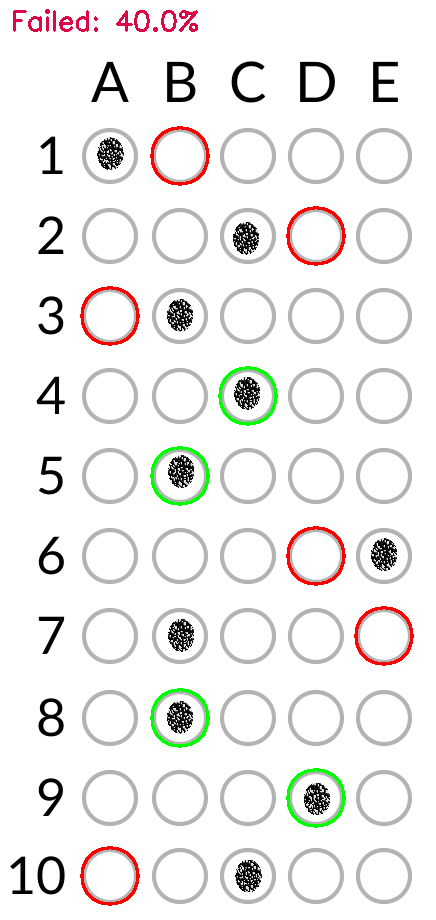
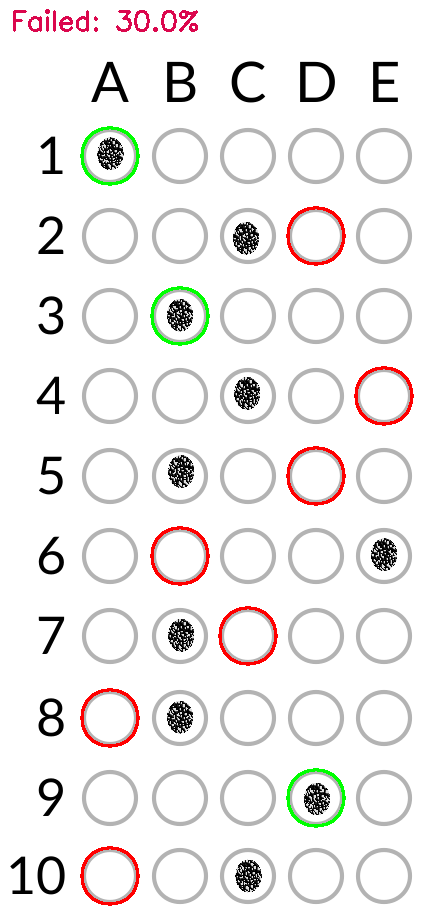
Utworzono za pomocą Colaboratory

diff --git a/02_document_scanner/omr.py b/02_document_scanner/omr.py
@@ -1,0 +1,103 @@
+import numpy as np
+from numpy.linalg import norm
+import cv2
+from skimage.filters import threshold_local
+import argparse
+import imutils
+from imutils import contours
+import sys
+
+def prepare_image(image):
+    gray = cv2.cvtColor(src = image, code = cv2.COLOR_BGR2GRAY)
+    blurred = cv2.GaussianBlur(src = gray, ksize = (5,5), sigmaX = 0)
+    edges = cv2.Canny(image = blurred, threshold1 = 70, threshold2 = 70)
+    thresh = cv2.threshold(src =edges, thresh = 50, maxval = 255, type = cv2.THRESH_BINARY | cv2.THRESH_OTSU)[1]
+    return thresh
+
+ap = argparse.ArgumentParser()
+ap.add_argument('-i', '--image', required = True, help='path to image')
+
+args = vars(ap.parse_args())
+
+print(f'OpenCV version: {cv2.__version__}')
+
+
+#klucz odpowiedzi
+ANSWER_KEY = {0:0, 1:3, 2:0, 3:2, 4:1, 5:3, 6:4, 7:1, 8:3, 9:0}
+#wczytanie obrazu
+image = cv2.imread(args['image'])
+#przygotowanie obrazu
+thresh = prepare_image(image)
+
+#wyszukanie wszystich krawędzi
+cnts = cv2.findContours(image = thresh.copy(), mode = cv2.RETR_EXTERNAL, method = cv2.CHAIN_APPROX_SIMPLE)
+cnts = imutils.grab_contours(cnts)
+print(f'[INFO] Liczba wykrytych kontur: {len(cnts)}')
+
+#wyszukanie kontur z odpowiedziami
+question_contours = []
+
+for cnt in cnts:
+    (x,y,w,h) = cv2.boundingRect(cnt)
+    aspect_ratio = w/float(h)
+
+    if w>50 and h >50 and aspect_ratio > 0.9 and aspect_ratio < 1.1:
+        question_contours.append(cnt)
+
+print(f'[INFO] Liczba wykrytych odpowiedzi: {len(question_contours)}')
+
+img = image.copy()
+
+#przetworzenie obrazu
+
+correct = 0
+question_contour = imutils.contours.sort_contours(question_contours, method = 'top-to-bottom')[0]
+
+for question, idx in enumerate(range(0,len(question_contours), 5)):
+    fields = question_contours[idx:idx+5]
+    fields = imutils.contours.sort_contours(fields, method = 'left-to-right')[0]
+    marked = None
+
+    for cnt_idx, cnt in enumerate(fields):
+        #utworzenie maski
+        mask = np.zeros(thresh.shape, dtype = 'uint8')
+
+        #wyrysowanie konturu na masce
+        cv2.drawContours(image = mask, contours = [cnt], contourIdx = -1, color = 255, thickness = -1)
+
+        mask = cv2.bitwise_and(src1 = thresh, src2 = thresh, mask = mask)
+
+        #zliczenie pikseli niezerowych
+        total = cv2.countNonZero(mask)
+        if marked is None or total>marked[0]:
+            marked = (total, cnt_idx)
+
+    color = (0,0,255)
+    key = ANSWER_KEY[question]
+
+    if key == marked[1]:
+        color = (0,255,0)
+        correct += 1
+
+    cv2.drawContours(image = img, contours = [fields[key]], contourIdx = -1, color = color, thickness = 2)
+
+#dodatnie górnego obramowania
+checked = cv2.copyMakeBorder(
+    src = img,
+    top = 50,
+    bottom = 0,
+    left = 0,
+    right = 0,
+    borderType = cv2.BORDER_CONSTANT,
+    value = (255,255,255)
+)
+
+score = (correct/10)
+color = (50,168,82) if score > 0.6 else (77,7,219)
+text = 'Passed' if score >= 0.6 else 'Failed'
+
+cv2.putText(img = checked, text = f'{text}: {score * 100}%', org = (10,30), fontFace = cv2.FONT_HERSHEY_SIMPLEX, fontScale = 0.9,
+            color = color, thickness = 2)
+cv2.imwrite(r'checked.png', checked)
+cv2.imshow('image', checked)
+cv2.waitKey(0)

diff --git a/02_document_scanner/optical mark recognition.py b/02_document_scanner/optical mark recognition.py
@@ -1,0 +1,102 @@
+import numpy as np
+from numpy.linalg import norm
+import cv2
+from skimage.filters import threshold_local
+import argparse
+import imutils
+import sys
+
+def prepare_image(image):
+    gray = cv2.cvtColor(src = image, code = cv2.COLOR_BGR2GRAY)
+    blurred = cv2.GaussianBlur(src = gray, ksize = (5,5), sigmaX = 0)
+    edges = cv2.Canny(image = blurred, threshold1 = 70, threshold2 = 70)
+    thresh = cv2.threshold(src =edges, thresh = 50, maxval = 255, type = cv2.THRESH_BINARY | cv2.THRESH.OTSU)[1]
+    return thresh
+
+ap = argparse.ArgumentParser()
+ap.add_argument('-i', '--image', required = True, help='path to image')
+
+args = vars(ap.parse_args())
+
+print(f'OpenCV version: {cv2.__version__}')
+
+
+#klucz odpowiedzi
+ANSWER_KEY = {0:0, 1:3, 2:0, 3:2, 4:1, 5:3, 6:4, 7:1, 8:3, 9:0}
+#wczytanie obrazu
+image = cv2.imread(args['image'])
+#przygotowanie obrazu
+thresh = prepare_image(image)
+
+#wyszukanie wszystich krawędzi
+cnts = cv2.findContours(image = thresh.copy(), mode = cv2.RETR_EXTERNAL, method = cv2.CHAIN_APPROX_SIMPLE)
+cnts = imutils.grab_contours(cnts)
+print(f'[INFO] Liczba wykrytych kontur: {len(cnts)}')
+
+#wyszukanie kontur z odpowiedziami
+question_contour = []
+
+for cnt in cnts:
+    (x,y,w,h) = cv2.boundingRect(cnt)
+    aspect_ratio = w/float(h)
+
+    if w>50 and h >50 and aspect_ratio > 0.9 and aspect_ratio < 1.1:
+        question_contour.append(cnt)
+
+print(f'[INFO] Liczba wykrytych odpowiedzi: {len(question_contour)}')
+
+img = image.copy()
+
+#przetworzenie obrazu
+
+correct = 0
+question_contour = imutils.contours.sort_contours(question_contour, method = 'top-to-bottom')[0]
+
+for question, idx in enumerate(range(0,len(question_contour), 5)):
+    fields = question_contour[idx:idx+5]
+    fields = imutils.contours.sort_contours(fields, method = 'left-to-right')
+    marked = None
+
+    for cnt_idx, cnt in enumerate(fields):
+        #utworzenie maski
+        mask = np.zeros(thresh.shape, dtype = 'uint8')
+
+        #wyrysowanie konturu na masce
+        cv2.drawContour(image = mask, contours = [cnt], contourIdx = -1, color = 255, thickness = -1)
+
+        mask = cv2.bitwise_and(src1 = thresh, src2 = thresh, mask = mask)
+
+        #zliczenie pikseli niezerowych
+        total = cv2.countNonZero(mask)
+        if marked is None or total>marked[0]:
+            marked = (total, cnt_idx)
+
+    color = (0,0,255)
+    key = ANSWER_KEY[question]
+
+    if key == marked[1]:
+        color = (0,255,0)
+        correct += 1
+
+    cv2.drawContours(image = img, contours = [fields[key]], contourIdx = -1, color = color, thickness = 2)
+
+#dodatnie górnego obramowania
+checked = cv2.copyMakeBorder(
+    src = img,
+    top = 50,
+    bottom = 50,
+    left = 50,
+    right = 50,
+    borderType = cv2.BORDER_CONSTANT,
+    value = (255,255,255)
+)
+
+score = (correct/10)
+color = (50,168,82 if score > 0.6 else (77,7,219))
+text = 'Passed' if score >= 0.6 else 'Failed'
+
+cv2.PutText(img = checked, text = f'{text}: {score * 100}%', org = (10,30), fontFace = cv2.FONT_HERSHEY_SIMPLEX, fontScale = 0.9,
+            color = color, thickness = 2)
+cv2.imwrite(r'checked.png', checked)
+cv2.imshow('image', checked)
+cv2.waitKey(0)

diff --git a/02_document_scanner/scan.py b/02_document_scanner/scan.py
@@ -1,7 +1,7 @@
 import numpy as np
 from numpy.linalg import norm
 import cv2
-# from skimage import threshold_local
+from skimage.filters import threshold_local
 import argparse
 import imutils
 import sys
@@ -33,13 +33,16 @@ def get_perspective(image, contours, ratio):
     width1 = norm(c-d)
     width2 = norm(b-a)
 
+    height1 = norm(b-c)
+    height2 = norm(a-d)
+
     max_width = max(int(width1), int(width2))
     max_height = max(int(height1), int(height2))
 
     destination = np.array([[0,0],
                             [max_width-1,0],
                             [max_width-1, max_height-1],
-                            0, max_height-1], dtype='float32')
+                            [0, max_height-1]], dtype='float32')
 
     M = cv2.getPerspectiveTransform(src = rectangle, dst = destination)
     warped_image = cv2.warpPerspective(src = image, M=M, dsize = (max_width, max_height))
@@ -103,6 +106,7 @@ cv2.imshow('out', warped_image)
 
 #konwersja do skali szarości
 warped_image = cv2.cvtColor(warped_image, cv2.COLOR_BGR2GRAY)
+
 
 #obliczenie maski progowej na podstawie detekcji pikseli
 T = threshold_local(image = warped_image, block_size = 11, offset = 10, method = 'gaussian')
